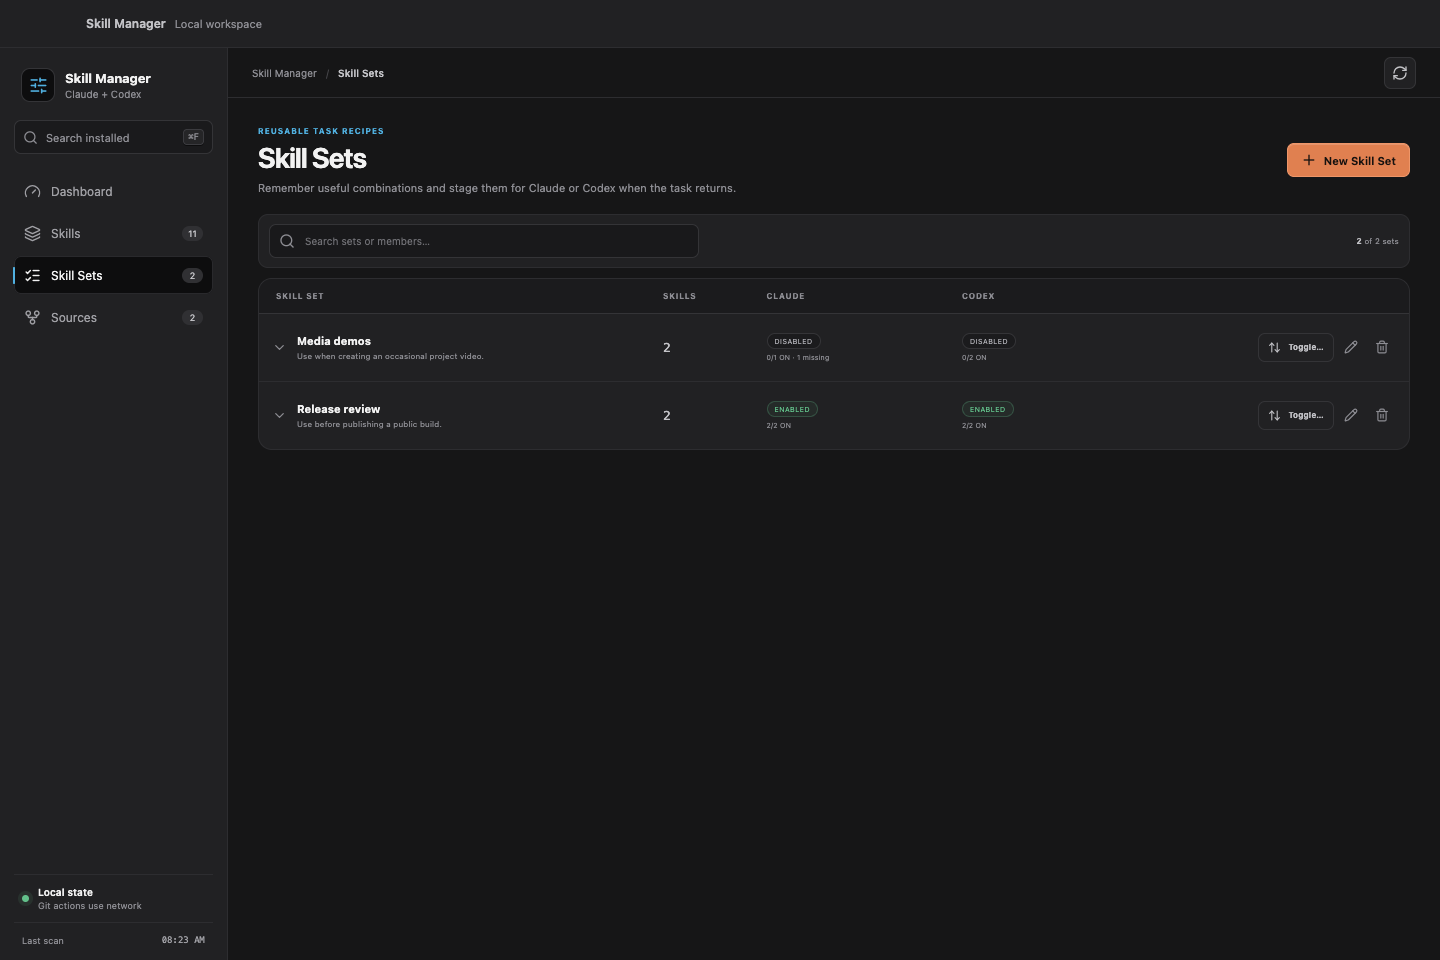
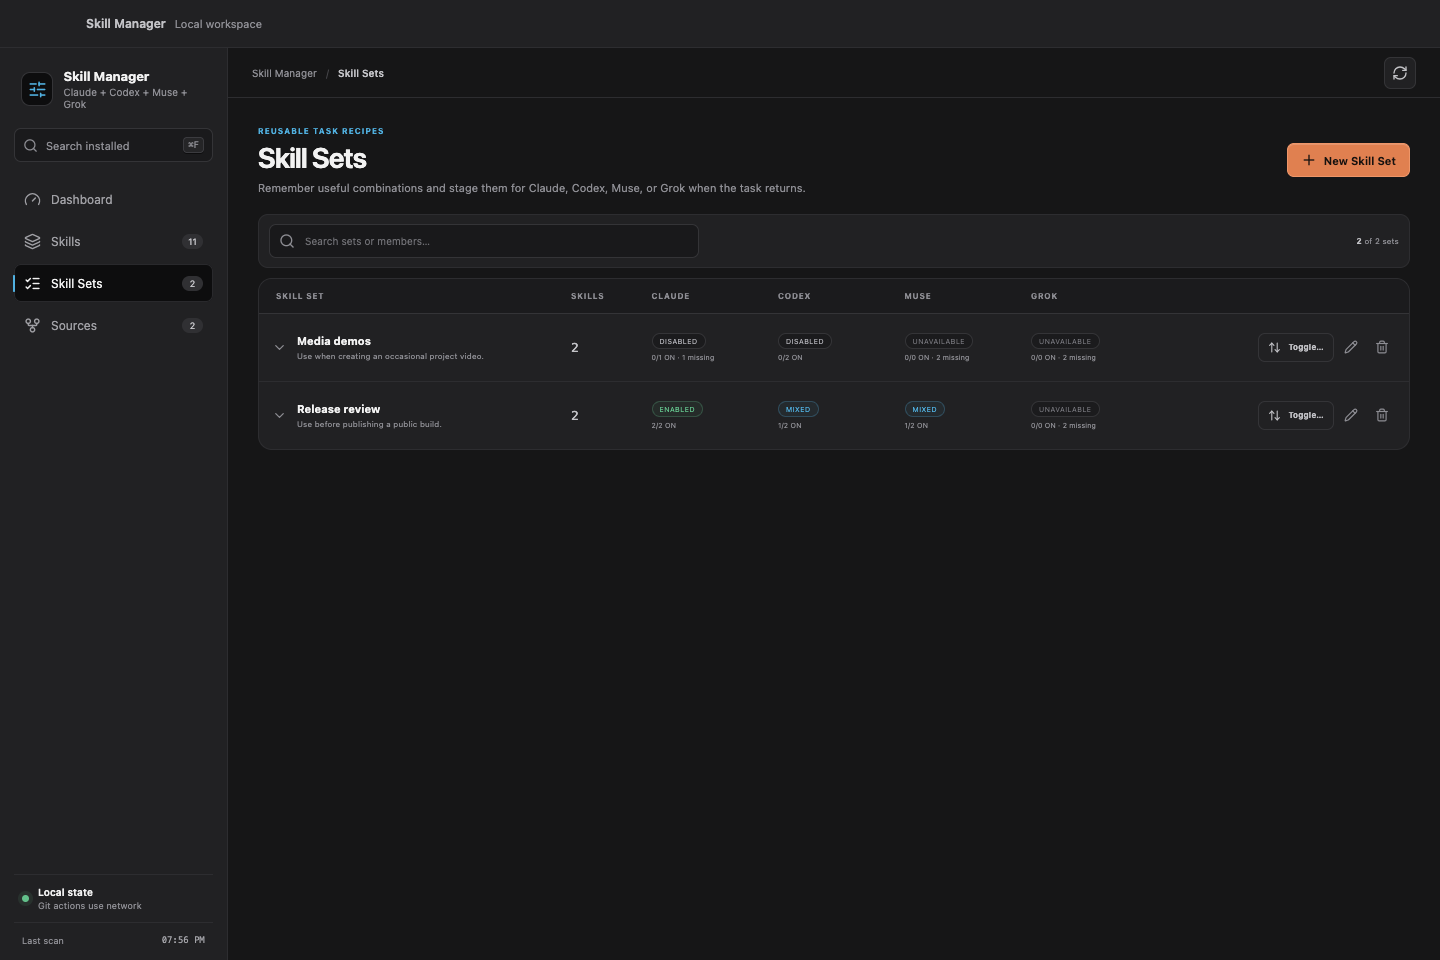
docs: refresh README media for Muse and Grok
Recapture desktop screenshots at 1440x960 so the README and the Remotion
demo show all four managed tools, add a Skills workspace screenshot, and
bump the storyboard to revision 5 with four filesystem cards, a four-column
social preview, and four-tool copy. Re-render demo.gif and social-preview.png.

diff --git a/video/src/SocialPreview.tsx b/video/src/SocialPreview.tsx
@@ -36,8 +36,8 @@ export function SocialPreview() {
           position: 'absolute',
           left: 68,
           top: 76,
-          width: 390,
-          height: 488,
+          width: 520,
+          height: 452,
           borderRadius: 34,
           border: `1px solid ${colors.border}`,
           backgroundColor: colors.chrome,
@@ -79,20 +79,23 @@ export function SocialPreview() {
         <div
           style={{
             display: 'grid',
-            gridTemplateColumns: '1fr 62px 62px',
+            gridTemplateColumns: '1fr 50px 50px 50px 50px',
             gap: 10,
             color: colors.muted,
-            fontSize: 12,
+            fontSize: 11,
             fontWeight: 700,
-            letterSpacing: 1.2,
-            marginTop: 38,
-            padding: '0 10px 9px',
+            letterSpacing: 0.6,
+            marginTop: 32,
+            padding: '0 6px 9px',
             textTransform: 'uppercase',
           }}
         >
           <span>Skill</span>
-          <span style={{ textAlign: 'center' }}>Claude</span>
-          <span style={{ textAlign: 'center' }}>Codex</span>
+          {SOCIAL_PREVIEW.tools.map((tool) => (
+            <span key={tool} style={{ textAlign: 'center' }}>
+              {tool}
+            </span>
+          ))}
         </div>
 
         {SOCIAL_PREVIEW.rows.map((skill) => (
@@ -100,12 +103,12 @@ export function SocialPreview() {
             key={skill.name}
             style={{
               display: 'grid',
-              gridTemplateColumns: '1fr 62px 62px',
+              gridTemplateColumns: '1fr 50px 50px 50px 50px',
               alignItems: 'center',
               gap: 10,
-              height: 70,
+              height: 64,
               borderTop: `1px solid ${colors.border}`,
-              padding: '0 10px',
+              padding: '0 6px',
               boxSizing: 'border-box',
             }}
           >
@@ -123,7 +126,7 @@ export function SocialPreview() {
                 style={{
                   color: colors.text,
                   fontFamily: fonts.mono,
-                  fontSize: 12.5,
+                  fontSize: 13,
                   overflow: 'hidden',
                   textOverflow: 'ellipsis',
                   whiteSpace: 'nowrap',
@@ -132,23 +135,23 @@ export function SocialPreview() {
                 {skill.name}
               </span>
             </div>
-            {[skill.claude, skill.codex].map((state, index) => (
+            {SOCIAL_PREVIEW.tools.map((tool) => (
               <span
-                key={`${skill.name}-${index}`}
+                key={`${skill.name}-${tool}`}
                 style={{
                   justifySelf: 'center',
-                  minWidth: 42,
+                  minWidth: 38,
                   borderRadius: 14,
-                  backgroundColor: state === 'ON' ? 'rgba(103,197,135,0.14)' : colors.subtle,
-                  color: state === 'ON' ? colors.green : colors.muted,
+                  backgroundColor: skill.states[tool] === 'ON' ? 'rgba(103,197,135,0.14)' : colors.subtle,
+                  color: skill.states[tool] === 'ON' ? colors.green : colors.muted,
                   fontFamily: fonts.mono,
                   fontSize: 12,
                   fontWeight: 700,
-                  padding: '6px 8px',
+                  padding: '6px 6px',
                   textAlign: 'center',
                 }}
               >
-                {state}
+                {skill.states[tool]}
               </span>
             ))}
           </div>
@@ -158,9 +161,9 @@ export function SocialPreview() {
       <div
         style={{
           position: 'absolute',
-          left: 524,
-          top: 110,
-          width: 674,
+          left: 646,
+          top: 118,
+          width: 566,
         }}
       >
         <div
@@ -178,12 +181,12 @@ export function SocialPreview() {
         <div
           style={{
             color: colors.text,
-            fontSize: 78,
+            fontSize: 70,
             fontWeight: 760,
-            letterSpacing: -3.7,
+            letterSpacing: -3.2,
             lineHeight: 0.98,
             marginTop: 30,
-            maxWidth: 660,
+            maxWidth: 566,
             whiteSpace: 'pre-line',
           }}
         >
@@ -192,7 +195,7 @@ export function SocialPreview() {
         <div
           style={{
             color: colors.muted,
-            fontSize: 27,
+            fontSize: 22,
             fontWeight: 500,
             letterSpacing: -0.4,
             marginTop: 34,

diff --git a/video/src/scenes/ProblemScene.tsx b/video/src/scenes/ProblemScene.tsx
@@ -16,16 +16,18 @@ export function ProblemScene() {
     <SceneLayer durationInFrames={sceneDuration(scene)}>
       <div style={{ position: 'absolute', left: 110, top: 124, display: 'flex', flexDirection: 'column', gap: 26 }}>
         <Eyebrow>{copyString(scene, 'eyebrow')}</Eyebrow>
-        <Headline width={1050}>{copyString(scene, 'headline')}</Headline>
+        <Headline width={830}>{copyString(scene, 'headline')}</Headline>
       </div>
 
-      <FolderCard label="CLAUDE CODE" path={copyString(scene, 'claudePath')} x={1120} y={180} rotate={-4 * (1 - settle)} accent={colors.cyan} progress={settle} />
-      <FolderCard label="CODEX" path={copyString(scene, 'codexPath')} x={1260} y={525} rotate={4.5 * (1 - settle)} accent={colors.blue} progress={settle} />
+      <FolderCard label="CLAUDE CODE" path={copyString(scene, 'claudePath')} x={1030} y={150} rotate={-4 * (1 - settle)} accent={colors.cyan} progress={settle} />
+      <FolderCard label="CODEX" path={copyString(scene, 'codexPath')} x={1440} y={330} rotate={4.5 * (1 - settle)} accent={colors.blue} progress={settle} />
+      <FolderCard label="MUSE" path={copyString(scene, 'musePath')} x={1030} y={510} rotate={-3.5 * (1 - settle)} accent={colors.orange} progress={settle} />
+      <FolderCard label="GROK" path={copyString(scene, 'grokPath')} x={1440} y={690} rotate={4 * (1 - settle)} accent={colors.green} progress={settle} />
 
       {names.map((name, index) => {
         const enter = spring({ frame: frame - 24 - index * 5, fps, config: { damping: 17, stiffness: 125 } })
-        const x = [760, 990, 870][index] ?? 820
-        const y = [620, 735, 845][index] ?? 700
+        const x = [150, 380, 250][index] ?? 200
+        const y = [640, 755, 865][index] ?? 700
         return (
           <div key={name} style={{ position: 'absolute', left: x, top: y, padding: '14px 20px', borderRadius: 12, background: colors.deep, border: `1px solid ${colors.border}`, color: colors.muted, fontFamily: fonts.mono, fontSize: 20, opacity: enter, transform: `translateY(${(1 - enter) * 28}px)` }}>
             {name}
@@ -33,19 +35,19 @@ export function ProblemScene() {
         )
       })}
 
-      <div style={{ position: 'absolute', left: 1050, top: 465, width: 185, height: 2, background: `linear-gradient(90deg, transparent, ${colors.orange}, transparent)`, opacity: interpolate(frame, [28, 45], [0, 0.9], { extrapolateLeft: 'clamp', extrapolateRight: 'clamp' }) }} />
+      <div style={{ position: 'absolute', left: 1180, top: 468, width: 260, height: 2, background: `linear-gradient(90deg, transparent, ${colors.orange}, transparent)`, opacity: interpolate(frame, [28, 45], [0, 0.9], { extrapolateLeft: 'clamp', extrapolateRight: 'clamp' }) }} />
     </SceneLayer>
   )
 }
 
 function FolderCard({ label, path, x, y, rotate, accent, progress }: { label: string; path: string; x: number; y: number; rotate: number; accent: string; progress: number }) {
   return (
-    <div style={{ position: 'absolute', left: x, top: y, width: 520, padding: 34, borderRadius: 24, background: colors.chrome, border: `1px solid ${colors.border}`, boxShadow: '0 34px 90px #0009', opacity: progress, transform: `perspective(900px) translate(${(1 - progress) * 120}px, ${(1 - progress) * 35}px) rotateY(${rotate}deg)` }}>
-      <div style={{ display: 'flex', alignItems: 'center', gap: 16, color: accent, fontSize: 22, fontWeight: 750, letterSpacing: 2.8 }}>
-        <span style={{ display: 'block', width: 38, height: 28, borderRadius: 6, background: accent, boxShadow: `0 0 30px ${accent}50` }} />
+    <div style={{ position: 'absolute', left: x, top: y, width: 420, padding: 28, borderRadius: 22, background: colors.chrome, border: `1px solid ${colors.border}`, boxShadow: '0 34px 90px #0009', opacity: progress, transform: `perspective(900px) translate(${(1 - progress) * 120}px, ${(1 - progress) * 35}px) rotateY(${rotate}deg)` }}>
+      <div style={{ display: 'flex', alignItems: 'center', gap: 16, color: accent, fontSize: 19, fontWeight: 750, letterSpacing: 2.4 }}>
+        <span style={{ display: 'block', width: 32, height: 24, borderRadius: 6, background: accent, boxShadow: `0 0 30px ${accent}50` }} />
         {label}
       </div>
-      <div style={{ marginTop: 26, color: colors.text, fontFamily: fonts.mono, fontSize: 31, fontWeight: 600 }}>{path}</div>
+      <div style={{ marginTop: 20, color: colors.text, fontFamily: fonts.mono, fontSize: 25, fontWeight: 600 }}>{path}</div>
     </div>
   )
 }

diff --git a/video/src/storyboard.ts b/video/src/storyboard.ts
@@ -1,5 +1,5 @@
 export const VIDEO = {
-  revision: 4,
+  revision: 5,
   fps: 30,
   width: 1920,
   height: 1080,
@@ -13,13 +13,14 @@ export const SOCIAL_PREVIEW = {
     product: 'Skill Manager',
     inventory: 'local skill inventory',
     headline: 'Agent Skills, under control.',
-    supporting: 'Claude Code + Codex · local · reversible',
+    supporting: 'Claude Code · Codex · Muse · Grok · local · reversible',
     surfaces: 'macOS app · TUI · CLI',
   },
+  tools: ['claude', 'codex', 'muse', 'grok'],
   rows: [
-    { name: 'release-checklist', accent: 'cyan', claude: 'ON', codex: 'ON' },
-    { name: 'ui-accessibility', accent: 'blue', claude: 'ON', codex: 'OFF' },
-    { name: 'dependency-review', accent: 'orange', claude: 'OFF', codex: 'ON' },
+    { name: 'release-checklist', accent: 'cyan', states: { claude: 'ON', codex: 'ON', muse: 'ON', grok: 'ON' } },
+    { name: 'ui-accessibility', accent: 'blue', states: { claude: 'ON', codex: 'OFF', muse: 'ON', grok: 'OFF' } },
+    { name: 'dependency-review', accent: 'orange', states: { claude: 'OFF', codex: 'ON', muse: 'OFF', grok: 'ON' } },
   ],
   asset: 'appicon.svg',
 } as const
@@ -40,10 +41,12 @@ export const STORYBOARD: readonly StoryScene[] = [
     start: 0,
     end: 84,
     copy: {
-      eyebrow: 'CLAUDE CODE + CODEX',
+      eyebrow: 'CLAUDE CODE · CODEX · MUSE · GROK',
       headline: 'Agent skills, scattered across tools?',
       claudePath: '~/.claude/skills',
       codexPath: '~/.agents/skills',
+      musePath: '~/.config/muse/skills',
+      grokPath: '~/.grok/skills',
       skillNames: ['release-checklist', 'dependency-review', 'ui-accessibility'],
     },
   },
@@ -96,7 +99,7 @@ export const STORYBOARD: readonly StoryScene[] = [
     copy: {
       product: 'Skill Manager',
       headline: 'Keep every skill. Load only what you need.',
-      footer: 'Claude Code + Codex · local · reversible',
+      footer: 'Claude Code · Codex · Muse · Grok · local · reversible',
     },
     assets: ['appicon.svg'],
   },

diff --git a/video/src/storyboard.test.ts b/video/src/storyboard.test.ts
@@ -37,6 +37,18 @@ test('all storyboard copy is populated', () => {
   }
 })
 
+test('every managed tool appears in the scattered-skills and closing copy', () => {
+  const problem = STORYBOARD.find((scene) => scene.id === 'problem')
+  assert.ok(problem)
+  for (const key of ['claudePath', 'codexPath', 'musePath', 'grokPath']) {
+    assert.ok(typeof problem.copy[key] === 'string', `problem copy is missing ${key}`)
+  }
+  for (const tool of ['Claude Code', 'Codex', 'Muse', 'Grok']) {
+    assert.ok(SOCIAL_PREVIEW.copy.supporting.includes(tool), `social preview omits ${tool}`)
+    assert.ok(String(STORYBOARD.at(-1)?.copy.footer).includes(tool), `closing footer omits ${tool}`)
+  }
+})
+
 test('social preview has stable GitHub dimensions, copy, and tracked assets', () => {
   assert.equal(SOCIAL_PREVIEW.width, 1280)
   assert.equal(SOCIAL_PREVIEW.height, 640)
@@ -46,11 +58,13 @@ test('social preview has stable GitHub dimensions, copy, and tracked assets', ()
     assert.ok(value.trim().length > 0)
   }
 
+  assert.deepEqual([...SOCIAL_PREVIEW.tools], ['claude', 'codex', 'muse', 'grok'])
   assert.equal(SOCIAL_PREVIEW.rows.length, 3)
   for (const row of SOCIAL_PREVIEW.rows) {
     assert.ok(row.name.trim().length > 0)
-    assert.ok(['ON', 'OFF'].includes(row.claude))
-    assert.ok(['ON', 'OFF'].includes(row.codex))
+    for (const tool of SOCIAL_PREVIEW.tools) {
+      assert.ok(['ON', 'OFF'].includes(row.states[tool]), `${row.name}.${tool} is not a visibility state`)
+    }
   }
 
   assert.ok(existsSync(resolve(process.cwd(), 'public', SOCIAL_PREVIEW.asset)))

diff --git a/video/STORYBOARD.md b/video/STORYBOARD.md
@@ -1,10 +1,11 @@
 # Skill Manager README Demo Storyboard
 
-Revision: 4
+Revision: 5
 
 Format: 20 seconds, 1920x1080, 30 fps, silent, seamless dark loop
 
-Audience: Claude Code and Codex users considering the public macOS preview
+Audience: Claude Code, Codex, Muse, and Grok users considering the public
+macOS preview
 
 ## Purpose
 
@@ -26,14 +27,14 @@ Format: static PNG, 1280x640, at most 1 MiB
 
 - Product label: **Skill Manager**
 - Headline: **Agent Skills, under control.**
-- Supporting line: **Claude Code + Codex · local · reversible**
+- Supporting line: **Claude Code · Codex · Muse · Grok · local · reversible**
 - Surface label: **macOS app · TUI · CLI**
 - Visual: the repository-owned app icon beside a compact synthetic skill
   inventory using the same dark canvas, source colors, and state language as
   the desktop interface.
-  - `release-checklist`: Claude ON, Codex ON
-  - `ui-accessibility`: Claude ON, Codex OFF
-  - `dependency-review`: Claude OFF, Codex ON
+  - `release-checklist`: Claude ON, Codex ON, Muse ON, Grok ON
+  - `ui-accessibility`: Claude ON, Codex OFF, Muse ON, Grok OFF
+  - `dependency-review`: Claude OFF, Codex ON, Muse OFF, Grok ON
 - Intent: make the repository purpose readable at normal GitHub card size and
   at a 640x320 reduced preview without suggesting cloud sync, telemetry, or
   unsupported functionality.
@@ -42,8 +43,9 @@ Format: static PNG, 1280x640, at most 1 MiB
 
 ### 1. Scattered skills — 0.0s to 2.8s (frames 0–84)
 
-- Visual: two floating filesystem cards for `~/.claude/skills` and
-  `~/.agents/skills`, with small skill chips spread between them.
+- Visual: four floating filesystem cards for `~/.claude/skills`,
+  `~/.agents/skills`, `~/.config/muse/skills`, and `~/.grok/skills`, with small
+  skill chips beneath the headline.
 - Headline: **Agent skills, scattered across tools?**
 - Motion: cards enter with restrained perspective and settle toward the center.
 - Intent: establish the problem without implying cloud sync or remote control.
@@ -89,7 +91,7 @@ Format: static PNG, 1280x640, at most 1 MiB
 ### 5. Source ownership — 13.7s to 17.3s (frames 411–519)
 
 - Visual: synthetic Sources capture showing a managed Git repository and a
-  linked local folder, with Claude and Codex counts.
+  linked local folder, with Claude, Codex, Muse, and Grok counts.
 - Callout: **Git repositories and linked folders.**
 - Intent: show that installation source and ownership remain explicit.
 
@@ -97,7 +99,7 @@ Format: static PNG, 1280x640, at most 1 MiB
 
 - Visual: Skill Manager app icon and name on the dark canvas.
 - Headline: **Keep every skill. Load only what you need.**
-- Footer: **Claude Code + Codex · local · reversible**
+- Footer: **Claude Code · Codex · Muse · Grok · local · reversible**
 - Motion: the close fades fully to the opening canvas so the GIF loops without
   a flash.
 
@@ -121,6 +123,9 @@ Tracked captures live in `public/ui/` and are made from
 - `skills-pending.png`
 - `skills-after.png`
 - `sources.png`
+
+Every capture must show the four managed tool columns (Claude, Codex, Muse,
+Grok) exposed by the current desktop interface.
 
 The captures must use the demo backend's `example-labs`, `sample-org`, and
 `/Users/example` fixtures. If a capture contains a real username, home path,

diff --git a/docs/wiki/log.md b/docs/wiki/log.md
@@ -477,3 +477,20 @@ intentionally excluded.
   regression assertion.
 - Deferred on purpose: `docs/images` screenshots still show three tools;
   refreshing them needs an interactive GUI capture session.
+
+## [2026-09-03] documentation | README media refreshed for Muse and Grok
+
+- Recaptured all README/demo screenshots from the demo frontend at 1440x960:
+  `docs/images/{dashboard,skills,skill-sets,sources-extend}.png` and
+  `video/public/ui/{dashboard,skills-before,skills-pending,skills-after,sources}.png`.
+  Every capture now shows the four managed tool columns; `skills.png` is new and
+  is the clearest README evidence of Claude/Codex/Muse/Grok parity.
+- Storyboard revision 5: scene 1 shows four filesystem cards (added
+  `~/.config/muse/skills`, `~/.grok/skills`), the social preview grid has four
+  tool columns, and the eyebrow/supporting/footer copy reads
+  "Claude Code · Codex · Muse · Grok". `storyboard.test.ts` locks the tool list
+  and the per-tool copy so a fifth tool cannot be added silently.
+- Re-rendered `.github/assets/demo.gif` (9.8 MiB, under the 10 MiB contract) and
+  `social-preview.png` (1280x640, 330 KiB); `npm run verify` passes. The social
+  preview still has to be uploaded by hand in repository settings.
+- Closes the item deferred in the PR12 follow-up entry above.

diff --git a/video/README.md b/video/README.md
@@ -47,7 +47,9 @@ the public desktop UI changes.
    ```
 
 2. In a clean browser session with a 1440x960 viewport, capture Dashboard,
-   Skills, and Sources from `http://127.0.0.1:4173`. For Skills, capture the
+   Skills, and Sources from `http://127.0.0.1:4173`. Every capture must show
+   the four managed tool columns: Claude, Codex, Muse, and Grok. For Skills,
+   capture the
    initial state, click the Codex toggle for `dependency-review`, capture the
    pending state, click **Apply changes**, and capture the final state.
 3. Save the five images under `video/public/ui/` using the names listed in

diff --git a/README.md b/README.md
@@ -318,6 +318,8 @@ these values from the same desktop build metadata as the application bundle.
 
 ![Skill Manager dashboard](docs/images/dashboard.png)
 
+![Skills workspace with Claude, Codex, Muse, and Grok columns](docs/images/skills.png)
+
 ![Saved Skill Sets workspace](docs/images/skill-sets.png)
 
 ![Extend managed sources to one tool](docs/images/sources-extend.png)
